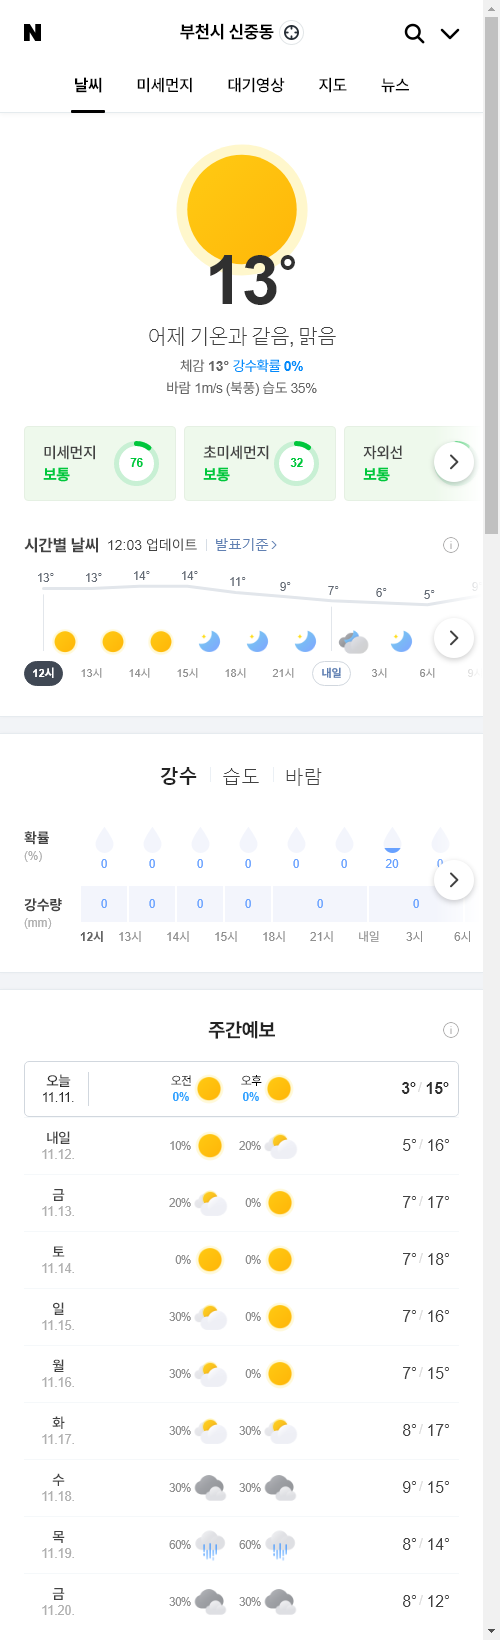
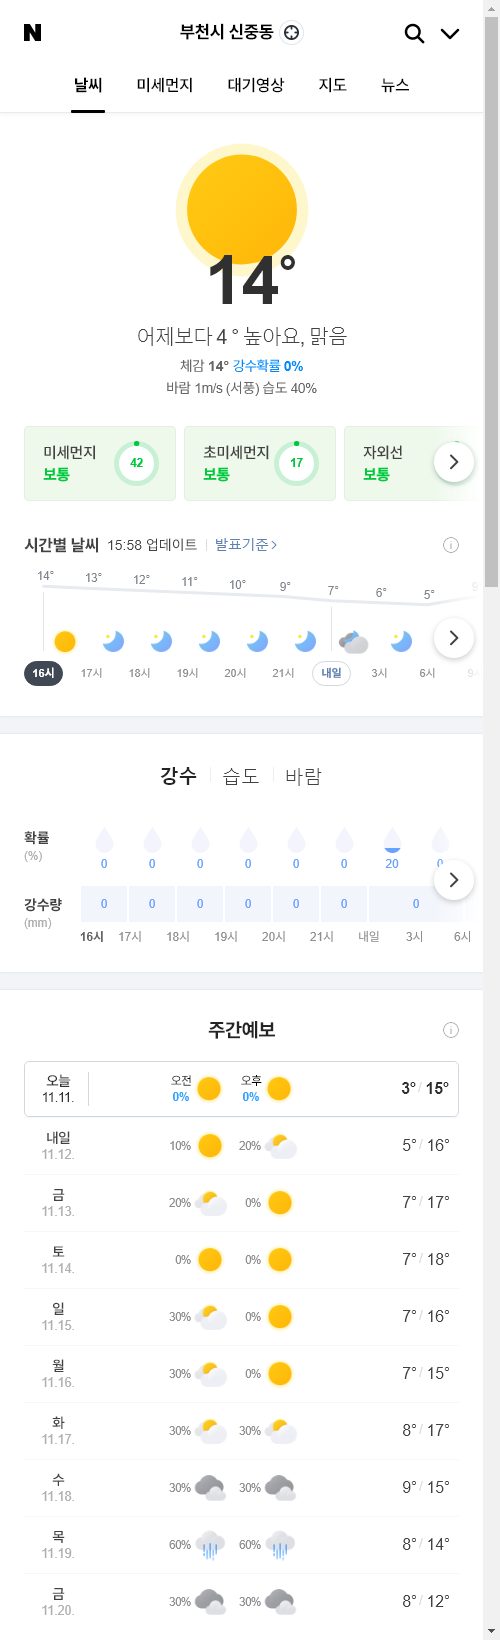
update result

diff --git a/README.md b/README.md
@@ -1,13 +1,13 @@
-##  2020-11-11 12:07:32   수요일 
-##### 날씨   -   어제 기온과 같음, 맑음
+##  2020-11-11 16:02:46   수요일 
+##### 날씨   -   어제보다 4 ° 높아요, 맑음
 <center><img src="../img/naver_weather_week.png"></center>
 ----
 ----
 ##### 지수
 <table border="1" bordercolor="blue" align = "center" >
 <tr align = "right" > <td>Item</td><td>Point</td><td>Diff</td><td>Rate</td><td>Buy</td><td>Sell</td><td>...</td>  </tr>
-<tr align = "right" > <td>KOSPI</td><td>2,480.04</td><td>27.21</td><td><font size="3" color="red" >1.11%</font> </td><td><font size="3" color="black">2,000</font></td><td><font size="3" color="black">3,000</font></td><td>0</td>  </tr>
-<tr align = "right" > <td>KOSDAQ</td><td>839.96</td><td>-0.83</td><td><font size="3" color="blue" >-0.1%</font> </td><td><font size="3" color="black">0</font></td><td><font size="3" color="black">0</font></td><td>0</td>  </tr>
+<tr align = "right" > <td>KOSPI</td><td>2,485.87</td><td>33.04</td><td><font size="3" color="red" >1.35%</font> </td><td><font size="3" color="black">2,000</font></td><td><font size="3" color="black">3,000</font></td><td>0</td>  </tr>
+<tr align = "right" > <td>KOSDAQ</td><td>839.9</td><td>-0.89</td><td><font size="3" color="blue" >-0.11%</font> </td><td><font size="3" color="black">0</font></td><td><font size="3" color="black">0</font></td><td>0</td>  </tr>
 </table>
 ----
 ##### 세계
@@ -16,14 +16,14 @@
 <tr align = "right" > <td>DOW</td><td>29,420.92</td><td>262.95</td><td><font size="3" color="red" >0.9%</font></td><td><font size="3" color="black">0</font></td><td><font size="3" color="black">0</font></td><td>0</td>  </tr>
 <tr align = "right" > <td>NASDAQ</td><td>11,553.86</td><td>-159.92</td><td><font size="3" color="blue" >-1.37%</font></td><td><font size="3" color="black">0</font></td><td><font size="3" color="black">0</font></td><td>0</td>  </tr>
 <tr align = "right" > <td>S&P</td><td>3,545.53</td><td>-4.97</td><td><font size="3" color="blue" >-0.14%</font></td><td><font size="3" color="black">0</font></td><td><font size="3" color="black">0</font></td><td>0</td>  </tr>
-<tr align = "right" > <td>SHANHAI</td><td>3,353.49</td><td>-6.66</td><td><font size="3" color="blue" >-0.2%</font></td><td><font size="3" color="black">0</font></td><td><font size="3" color="black">0</font></td><td>0</td>  </tr>
-<tr align = "right" > <td>INDIA</td><td>43,277.65</td><td>680.22</td><td><font size="3" color="red" >1.6%</font></td><td><font size="3" color="black">0</font></td><td><font size="3" color="black">0</font></td><td>0</td>  </tr>
+<tr align = "right" > <td>SHANHAI</td><td>3,341.37</td><td>-18.78</td><td><font size="3" color="blue" >-0.56%</font></td><td><font size="3" color="black">0</font></td><td><font size="3" color="black">0</font></td><td>0</td>  </tr>
+<tr align = "right" > <td>INDIA</td><td>43,289.72</td><td>12.07</td><td><font size="3" color="red" >0.03%</font></td><td><font size="3" color="black">0</font></td><td><font size="3" color="black">0</font></td><td>0</td>  </tr>
 </table>
 ----
 ##### 시장
 <table border="1" bordercolor="blue" align = "center" >
 <tr align = "right" > <td>Item</td><td>Price</td><td>Diff</td><td>Rate</td><td>Buy</td><td>Sell</td><td>...</td>  </tr>
-<tr align = "right" > <td>USD</td><td>1,112.0</td><td>-4.8</td><td><font size="3" color="blue">-0.43%</font></td><td><font size="3" color="black">1,110</font></td><td><font size="3" color="black">0</font></td><td>0</td>  </tr>
+<tr align = "right" > <td>USD</td><td>1,110.0</td><td>-7.0</td><td><font size="3" color="blue">-0.63%</font></td><td><font size="3" color="black">1,110</font></td><td><font size="3" color="black">0</font></td><td>0</td>  </tr>
 <tr align = "right" > <td>WTI</td><td>41.36</td><td>1.07</td><td><font size="3" color="red">2.65%</font></td><td><font size="3" color="black">29.0</font></td><td><font size="3" color="black">0</font></td><td>0</td>  </tr>
 <tr align = "right" > <td>GOLD</td><td>1,875.0</td><td>22.2</td><td><font size="3" color="red">1.19%</font></td><td><font size="3" color="black">0</font></td><td><font size="3" color="black">0</font></td><td>0</td>  </tr>
 </table>
@@ -33,21 +33,21 @@
 <tr align = "right" > <td>Item</td><td>Price</td><td>Diff</td><td>Rate</td><td>Purchased</td><td>Sell</td><td>Buy</td>  </tr>
 <tr align = "right" > <td>한국 전력</td><td>21,250</td><td>550</td><td><font size="3" color="red">2.66%</font></td><td>25,720</td><td><font size="3" color="black">30,000</font></td><td><font size="3" color="black">14,000</font></td>  </tr>
 <tr align = "right" > <td>삼성엔지니어.</td><td>12,350</td><td>200</td><td><font size="3" color="red">1.65%</font></td><td>18,935</td><td><font size="3" color="black">20,000</font></td><td><font size="3" color="black">8,000</font></td>  </tr>
-<tr align = "right" > <td>CJ CGV</td><td>22,850</td><td>900</td><td><font size="3" color="red">4.1%</font></td><td>34,895</td><td><font size="3" color="black">36,000</font></td><td><font size="3" color="black">0</font></td>  </tr>
-<tr align = "right" > <td>아모레퍼시픽</td><td>171,000</td><td>1,000</td><td><font size="3" color="red">0.59%</font></td><td>235,350</td><td><font size="3" color="black">240,000</font></td><td><font size="3" color="black">130,000</font></td>  </tr>
-<tr align = "right" > <td>한화</td><td>26,500</td><td>100</td><td><font size="3" color="red">0.38%</font></td><td>25,550</td><td><font size="3" color="black">30,000</font></td><td><font size="3" color="black">20,000</font></td>  </tr>
-<tr align = "right" > <td>NAVER</td><td>281,500</td><td>-1,500</td><td><font size="3" color="blue">-0.53%</font></td><td>147,200</td><td><font size="3" color="black">400,000</font></td><td><font size="3" color="black">150,000</font></td>  </tr>
-<tr align = "right" > <td>LG 화학우</td><td>349,500</td><td>-4,500</td><td><font size="3" color="blue">-1.27%</font></td><td>202,490</td><td><font size="3" color="black">500,000</font></td><td><font size="3" color="black">200,000</font></td>  </tr>
-<tr align = "right" > <td>스튜디오드래.</td><td>79,900</td><td>-200</td><td><font size="3" color="blue">-0.25%</font></td><td>81,243</td><td><font size="3" color="black">100,000</font></td><td><font size="3" color="black">78,000</font></td>  </tr>
-<tr align = "right" > <td>글로벌럭셔리</td><td>13,575</td><td>230</td><td><font size="3" color="red">1.72%</font></td><td>0</td><td><font size="3" color="black">15,000</font></td><td><font size="3" color="black">10,000</font></td>  </tr>
-<tr align = "right" > <td>QV미국IT</td><td>24,190</td><td>-120</td><td><font size="3" color="blue">-0.49%</font></td><td>0</td><td><font size="3" color="black">30,000</font></td><td><font size="3" color="black">20,000</font></td>  </tr>
-<tr align = "right" > <td>호텔 신라</td><td>80,900</td><td>800</td><td><font size="3" color="red">1.0%</font></td><td>72,800</td><td><font size="3" color="black">100,000</font></td><td><font size="3" color="black">70,000</font></td>  </tr>
-<tr align = "right" > <td>S-Oil</td><td>66,900</td><td>500</td><td><font size="3" color="red">0.75%</font></td><td>62,842</td><td><font size="3" color="black">100,000</font></td><td><font size="3" color="black">50,000</font></td>  </tr>
-<tr align = "right" > <td>LG전자</td><td>86,100</td><td>200</td><td><font size="3" color="red">0.23%</font></td><td>82,022</td><td><font size="3" color="black">100,000</font></td><td><font size="3" color="black">60,000</font></td>  </tr>
-<tr align = "right" > <td>지역난방공사</td><td>39,050</td><td>-100</td><td><font size="3" color="blue">-0.26%</font></td><td>43,590</td><td><font size="3" color="black">60,000</font></td><td><font size="3" color="black">30,000</font></td>  </tr>
-<tr align = "right" > <td>KOEDX은행</td><td>6,300</td><td>205</td><td><font size="3" color="red">3.36%</font></td><td>5,178</td><td><font size="3" color="black">6,000</font></td><td><font size="3" color="black">4,500</font></td>  </tr>
-<tr align = "right" > <td>삼성 전자우</td><td>56,200</td><td>700</td><td><font size="3" color="red">1.26%</font></td><td>48,250</td><td><font size="3" color="black">56,000</font></td><td><font size="3" color="black">45,000</font></td>  </tr>
-<tr align = "right" > <td>한화에어로스.</td><td>28,050</td><td>550</td><td><font size="3" color="red">2.0%</font></td><td>25,700</td><td><font size="3" color="black">30,000</font></td><td><font size="3" color="black">24,000</font></td>  </tr>
-<tr align = "right" > <td>한국금융지주</td><td>74,800</td><td>2,300</td><td><font size="3" color="red">3.17%</font></td><td>0</td><td><font size="3" color="black">82,000</font></td><td><font size="3" color="black">60,000</font></td>  </tr>
+<tr align = "right" > <td>CJ CGV</td><td>22,450</td><td>500</td><td><font size="3" color="red">2.28%</font></td><td>34,895</td><td><font size="3" color="black">36,000</font></td><td><font size="3" color="black">0</font></td>  </tr>
+<tr align = "right" > <td>아모레퍼시픽</td><td>174,500</td><td>4,500</td><td><font size="3" color="red">2.65%</font></td><td>235,350</td><td><font size="3" color="black">240,000</font></td><td><font size="3" color="black">130,000</font></td>  </tr>
+<tr align = "right" > <td>한화</td><td>26,750</td><td>350</td><td><font size="3" color="red">1.33%</font></td><td>25,550</td><td><font size="3" color="black">30,000</font></td><td><font size="3" color="black">20,000</font></td>  </tr>
+<tr align = "right" > <td>NAVER</td><td>280,000</td><td>-3,000</td><td><font size="3" color="blue">-1.06%</font></td><td>147,200</td><td><font size="3" color="black">400,000</font></td><td><font size="3" color="black">150,000</font></td>  </tr>
+<tr align = "right" > <td>LG 화학우</td><td>346,500</td><td>-7,500</td><td><font size="3" color="blue">-2.12%</font></td><td>202,490</td><td><font size="3" color="black">500,000</font></td><td><font size="3" color="black">200,000</font></td>  </tr>
+<tr align = "right" > <td>스튜디오드래.</td><td>79,500</td><td>-600</td><td><font size="3" color="blue">-0.75%</font></td><td>81,243</td><td><font size="3" color="black">100,000</font></td><td><font size="3" color="black">78,000</font></td>  </tr>
+<tr align = "right" > <td>글로벌럭셔리</td><td>13,620</td><td>275</td><td><font size="3" color="red">2.06%</font></td><td>0</td><td><font size="3" color="black">15,000</font></td><td><font size="3" color="black">10,000</font></td>  </tr>
+<tr align = "right" > <td>QV미국IT</td><td>24,160</td><td>-150</td><td><font size="3" color="blue">-0.62%</font></td><td>0</td><td><font size="3" color="black">30,000</font></td><td><font size="3" color="black">20,000</font></td>  </tr>
+<tr align = "right" > <td>호텔 신라</td><td>80,800</td><td>700</td><td><font size="3" color="red">0.87%</font></td><td>72,800</td><td><font size="3" color="black">100,000</font></td><td><font size="3" color="black">70,000</font></td>  </tr>
+<tr align = "right" > <td>S-Oil</td><td>66,700</td><td>300</td><td><font size="3" color="red">0.45%</font></td><td>62,842</td><td><font size="3" color="black">100,000</font></td><td><font size="3" color="black">50,000</font></td>  </tr>
+<tr align = "right" > <td>LG전자</td><td>86,800</td><td>900</td><td><font size="3" color="red">1.05%</font></td><td>82,022</td><td><font size="3" color="black">100,000</font></td><td><font size="3" color="black">60,000</font></td>  </tr>
+<tr align = "right" > <td>지역난방공사</td><td>39,300</td><td>150</td><td><font size="3" color="red">0.38%</font></td><td>43,590</td><td><font size="3" color="black">60,000</font></td><td><font size="3" color="black">30,000</font></td>  </tr>
+<tr align = "right" > <td>KOEDX은행</td><td>6,310</td><td>215</td><td><font size="3" color="red">3.53%</font></td><td>5,178</td><td><font size="3" color="black">6,000</font></td><td><font size="3" color="black">4,500</font></td>  </tr>
+<tr align = "right" > <td>삼성 전자우</td><td>56,900</td><td>1,400</td><td><font size="3" color="red">2.52%</font></td><td>48,250</td><td><font size="3" color="black">56,000</font></td><td><font size="3" color="black">45,000</font></td>  </tr>
+<tr align = "right" > <td>한화에어로스.</td><td>28,500</td><td>1,000</td><td><font size="3" color="red">3.64%</font></td><td>25,700</td><td><font size="3" color="black">30,000</font></td><td><font size="3" color="black">24,000</font></td>  </tr>
+<tr align = "right" > <td>한국금융지주</td><td>77,200</td><td>4,700</td><td><font size="3" color="red">6.48%</font></td><td>0</td><td><font size="3" color="black">82,000</font></td><td><font size="3" color="black">60,000</font></td>  </tr>
 </table>
 ----
